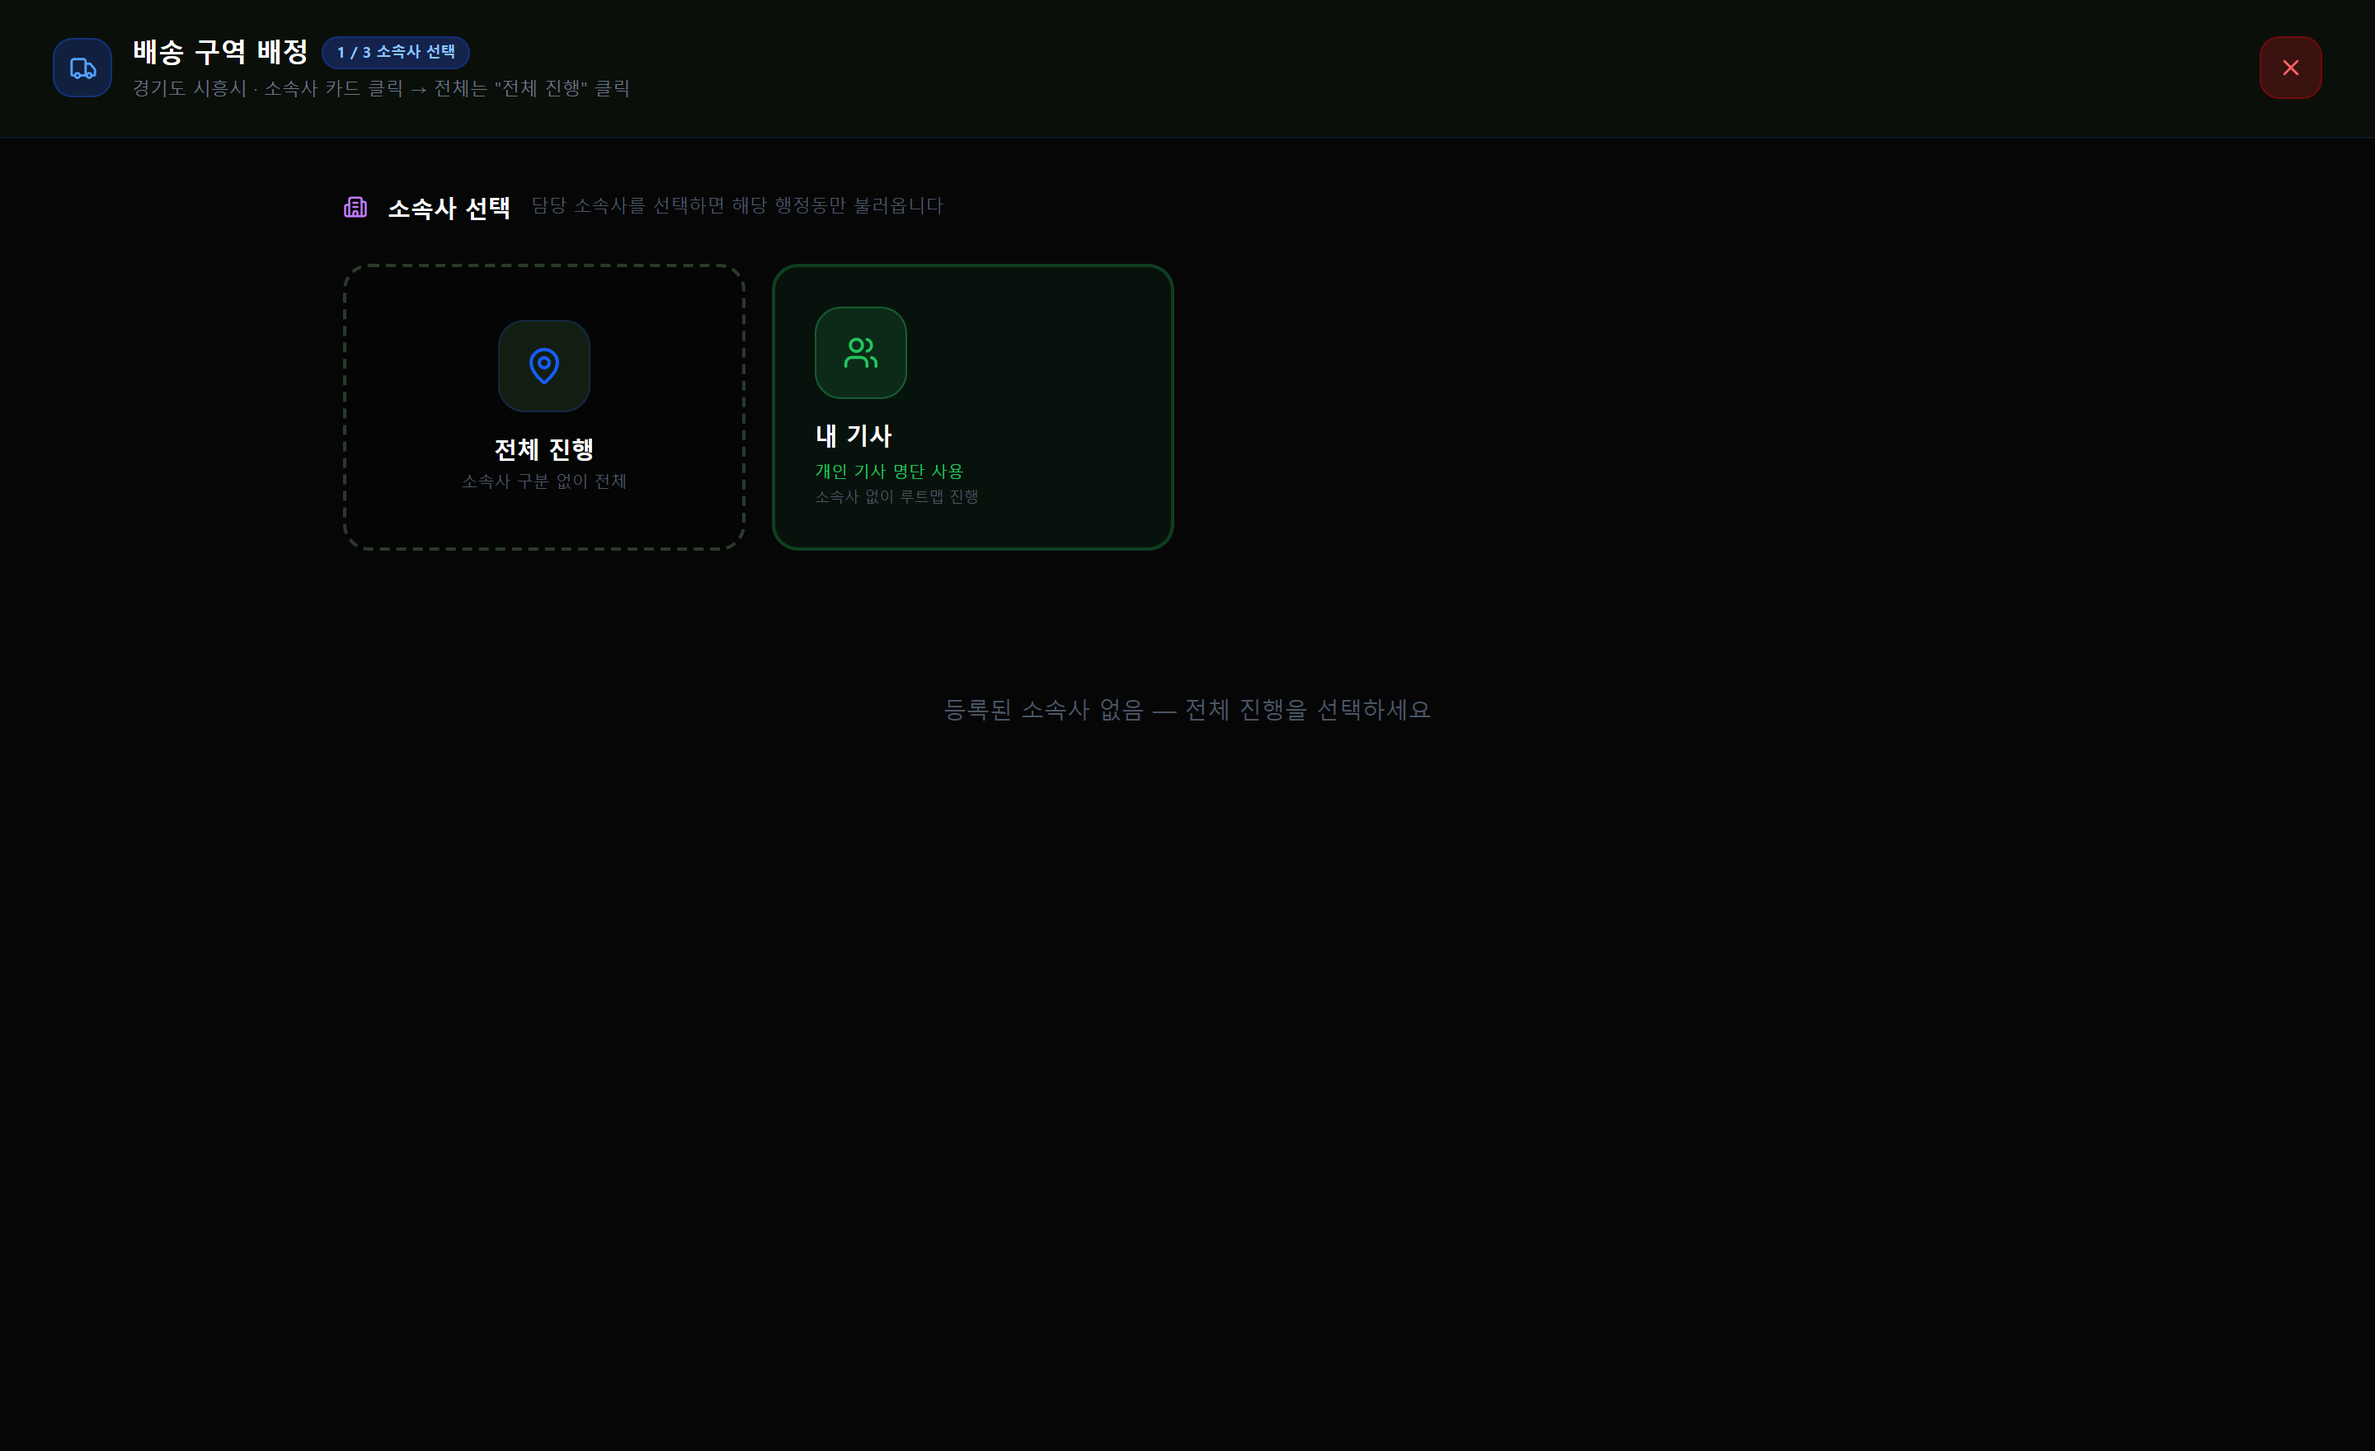
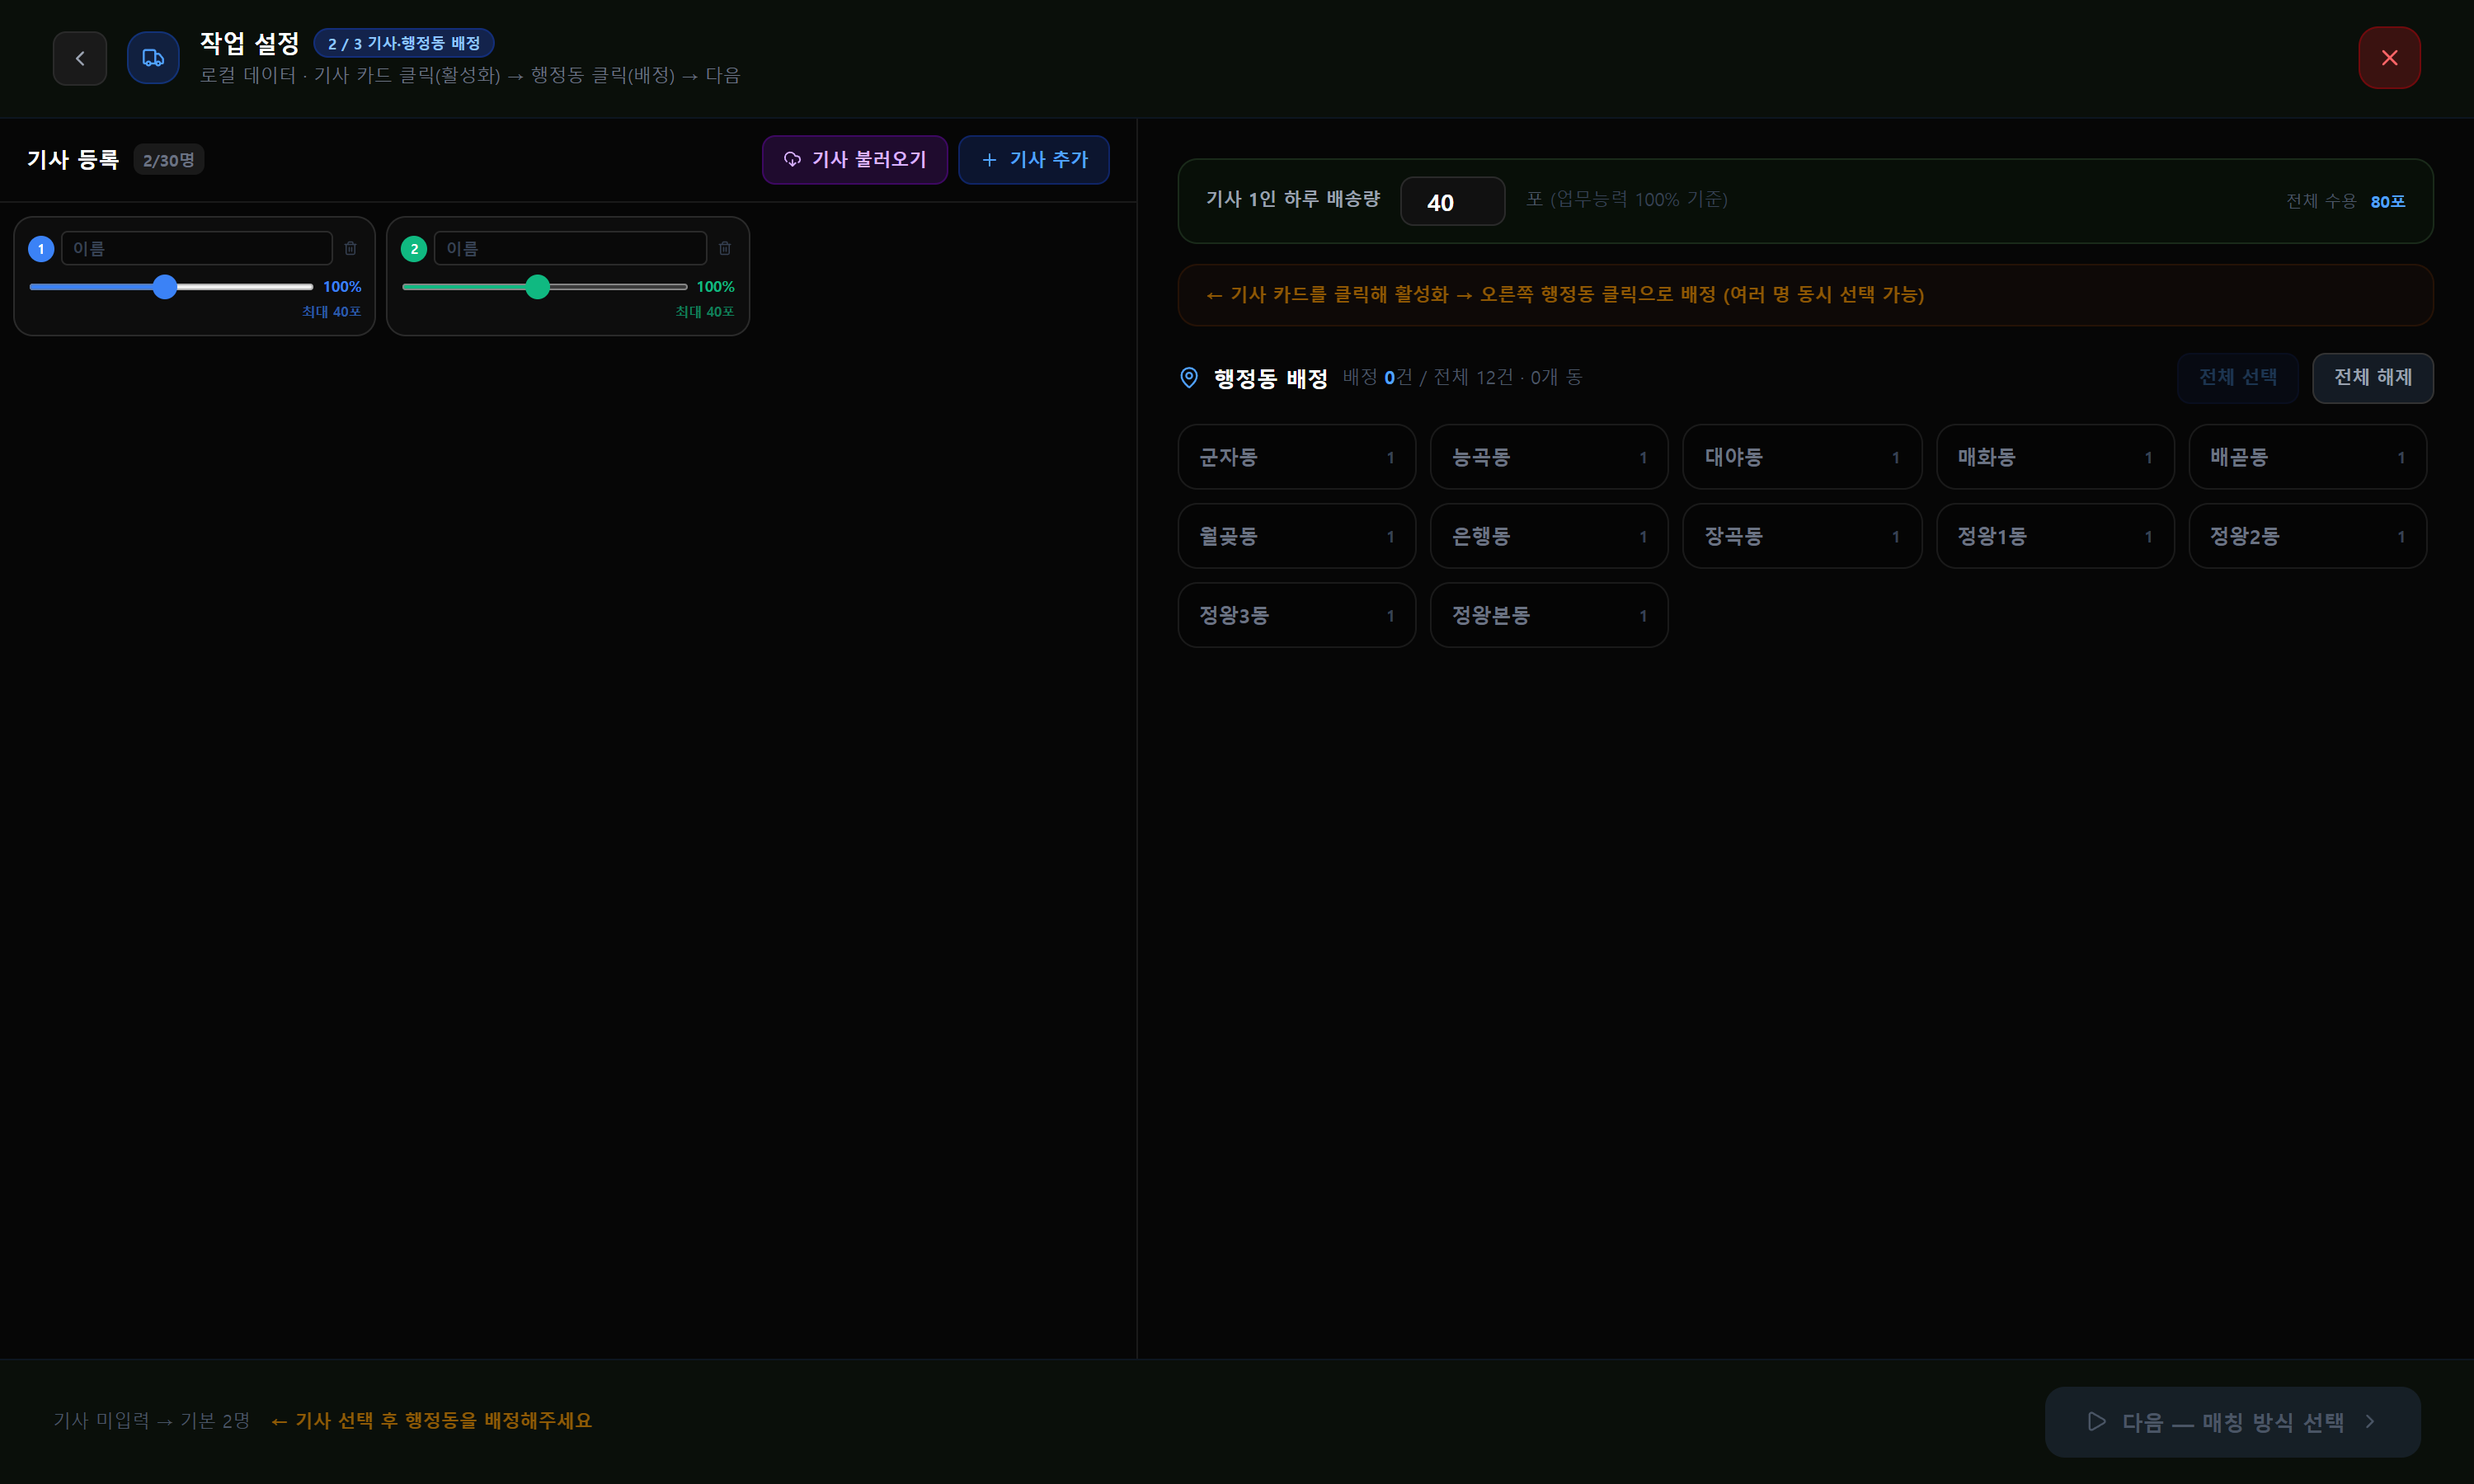
feat(manual): 유료 가이드 루트 설정 2/3 실제 화면 적용 + 캡션 정비
- 09-routesetup: 배송 구역 배정 2/3(기사 등록·용량 슬라이더·행정동 배정) 실제 화면으로 교체(1/3보다 정보량 풍부)
- manual-paid 자동배정 단계 캡션을 2/3 흐름(기사추가→카드클릭→행정동배정→다음)으로 갱신
- 기사 배정 완료 지도 1장만 안내용 목업 유지(행정동 카드 활성화 인터랙션은 헤드리스 자동화 한계)

diff --git a/public/manual-paid.html b/public/manual-paid.html
@@ -283,9 +283,9 @@
     <div class="kicker">STEP 8</div>
     <h2>🧩 기사 자동 배정 (루트맵) <span class="pill">VIP↑</span></h2>
     <p class="lead">버튼 하나로 모든 배송지를 기사별 구역으로 자동으로 나눕니다. 구역은 서로 겹치지 않고, 용량 비율대로 공평하게 나뉩니다.</p>
-    <div class="shot"><div class="bar"><i class="r"></i><i class="y"></i><i class="g"></i><span>배송 구역 배정 — 시작 (1/3)</span></div>
-      <img src="shots/09-routesetup.png" alt="배송 구역 배정 시작 화면 — 전체 진행 / 내 기사 선택" loading="lazy" /></div>
-    <p class="cap">실제 화면입니다. 루트맵 진입 시 <b>전체 진행</b> 또는 <b>내 기사</b>를 고르고 시작합니다. 이후 지도에서 아래처럼 자동 배정됩니다.</p>
+    <div class="shot"><div class="bar"><i class="r"></i><i class="y"></i><i class="g"></i><span>작업 설정 (2/3 기사·행정동 배정)</span></div>
+      <img src="shots/09-routesetup.png" alt="작업 설정 2/3 — 기사 등록(용량 슬라이더)과 행정동 배정 화면" loading="lazy" /></div>
+    <p class="cap">실제 화면입니다. <b>기사 추가</b>로 기사를 등록(용량 % 조절)하고, <b>기사 카드 클릭 → 행정동 클릭</b>으로 구역을 배정한 뒤 <b>다음 — 매칭 방식 선택</b>으로 진행합니다. 이후 지도에서 아래처럼 자동 배정됩니다.</p>
     <div class="do"><div class="n">1</div><div class="t">(선택) 각 기사 카드의 <b>“핀 꽂기”</b>로 기사 거점을 지도에 찍습니다.<div class="hint">핀을 찍으면 그 위치를 기준으로 좌우/상하 구역이 깔끔하게 나뉩니다.</div></div></div>
     <div class="do"><div class="n">2</div><div class="t">상단 <b>“자동 N등분”</b>을 누릅니다.<div class="hint">모든 배송지가 기사별 색으로 칠해집니다. 같은 아파트·같은 주소는 한 기사에게 묶입니다.</div></div></div>
     <div class="do"><div class="n">3</div><div class="t">손볼 곳은 <b>브러시</b>로 지도를 드래그해 그 기사에게 다시 칠합니다.</div></div>

diff --git a/src/version.js b/src/version.js
@@ -1,6 +1,6 @@
-export const APP_VERSION = 'V6.28';
+export const APP_VERSION = 'V6.29';
 export const APP_BUILD = '2026.06.17';
-export const APP_BUILD_TIME = '2026.06.17 22:25';
+export const APP_BUILD_TIME = '2026.06.17 22:43';
 
 export const CHANGELOG = [
   { v: 'V5.5', date: '2026.05.26', items: [
